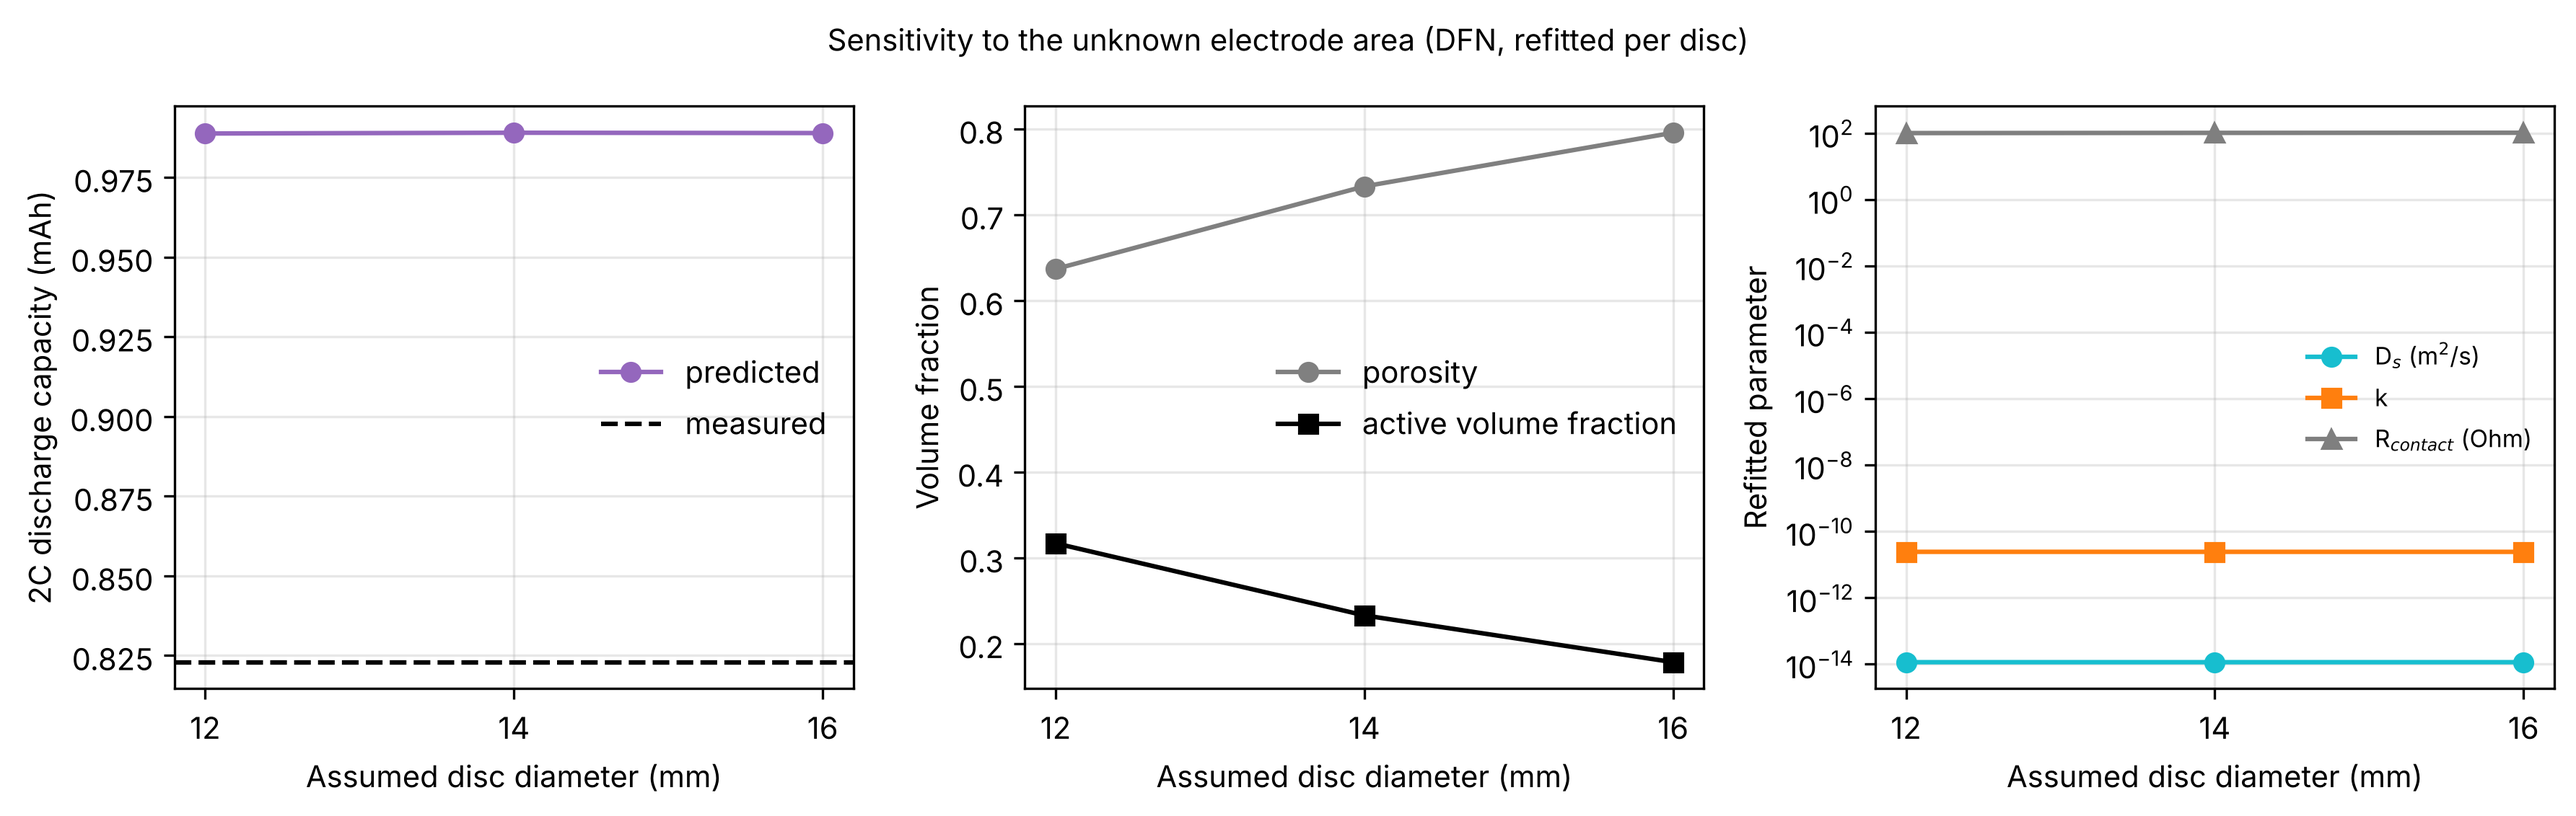
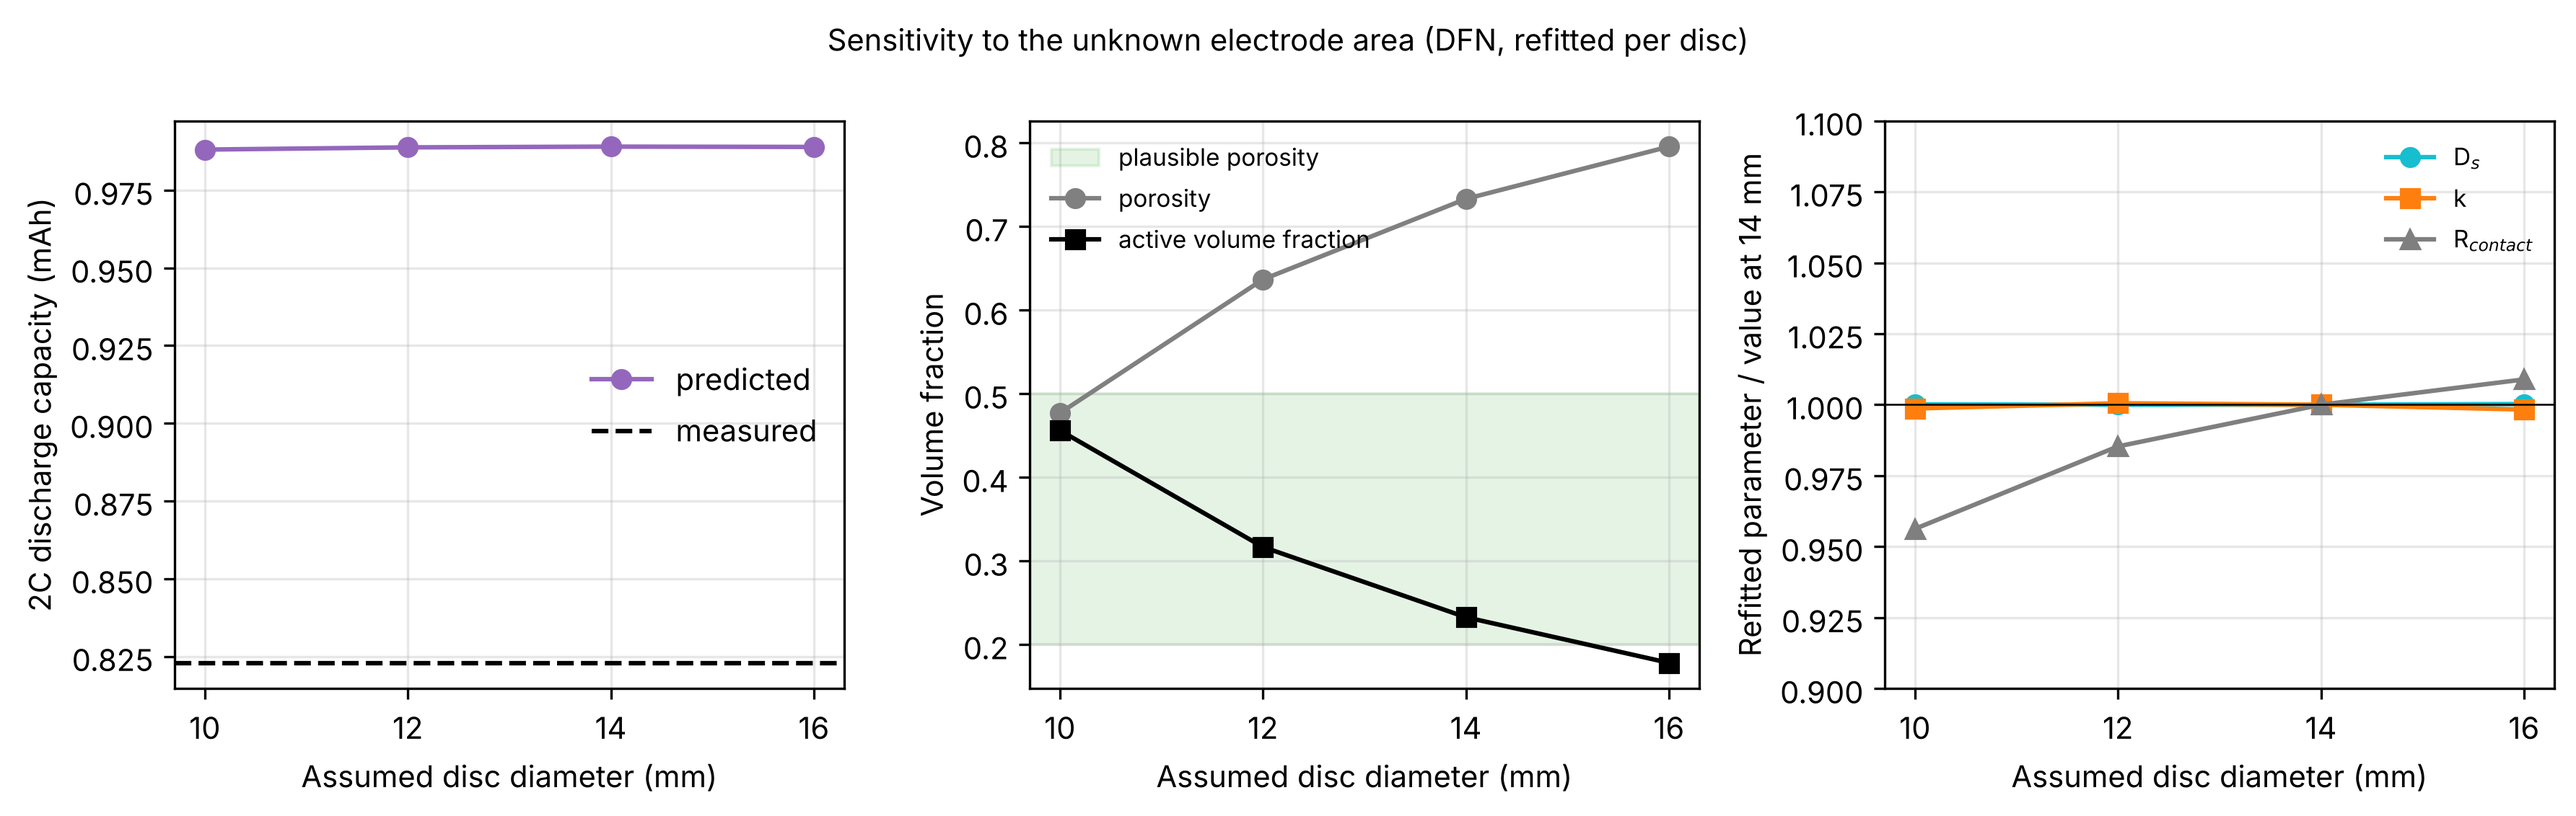
DFN disc sensitivity over 10-16 mm; README states the area derivation

diff --git a/README.md b/README.md
@@ -84,21 +84,33 @@ single biggest limitation of this work, and it is visible in the k / R_contact c
 
 ### Sensitivity to the unknown electrode area
 
-| Model | Disc (mm) | Loading (mg/cm²) | ε_active | Porosity | R_contact (Ω) | Ds (m²/s) | 2C prediction (mAh) |
-|---|---|---|---|---|---|---|---|
-| SPMe | 12 | 11.5 | 0.32 | 0.64 | 99 | 1.14e-14 | 0.989 (+20.2 %) |
-| SPMe | 14 | 8.5 | 0.23 | 0.73 | 101 | 1.14e-14 | 0.989 (+20.2 %) |
-| SPMe | 16 | 6.5 | 0.18 | 0.80 | 102 | 1.14e-14 | 0.989 (+20.2 %) |
-| DFN | 12 | 11.5 | 0.32 | 0.64 | 99 | 1.14e-14 | 0.989 (+20.2 %) |
-| DFN | 14 | 8.5 | 0.23 | 0.73 | 101 | 1.14e-14 | 0.989 (+20.2 %) |
-| DFN | 16 | 6.5 | 0.18 | 0.80 | 102 | 1.14e-14 | 0.989 (+20.2 %) |
+| Model | Disc (mm) | Loading (mg/cm²) | Coating density (g/cm³) | ε_active | Porosity | Coating | Train RMSE (mV) | R_contact (Ω) | Ds (m²/s) | 2C prediction (mAh) |
+|---|---|---|---|---|---|---|---|---|---|---|
+| SPMe | 10 | 16.6 | 2.07 | 0.46 | 0.48 | plausible | 26.2 | 97 | 1.14e-14 | 0.989 (+20.2 %) |
+| SPMe | 12 | 11.5 | 1.44 | 0.32 | 0.64 | light coating | 26.2 | 99 | 1.14e-14 | 0.989 (+20.2 %) |
+| SPMe | 14 | 8.5 | 1.06 | 0.23 | 0.73 | implausibly porous | 26.2 | 101 | 1.14e-14 | 0.989 (+20.2 %) |
+| SPMe | 16 | 6.5 | 0.81 | 0.18 | 0.80 | implausibly porous | 26.2 | 102 | 1.14e-14 | 0.989 (+20.2 %) |
+| DFN | 10 | 16.6 | 2.07 | 0.46 | 0.48 | plausible | 26.2 | 97 | 1.14e-14 | 0.988 (+20.1 %) |
+| DFN | 12 | 11.5 | 1.44 | 0.32 | 0.64 | light coating | 26.2 | 99 | 1.14e-14 | 0.989 (+20.2 %) |
+| DFN | 14 | 8.5 | 1.06 | 0.23 | 0.73 | implausibly porous | 26.2 | 101 | 1.14e-14 | 0.989 (+20.2 %) |
+| DFN | 16 | 6.5 | 0.81 | 0.18 | 0.80 | implausibly porous | 26.2 | 102 | 1.14e-14 | 0.989 (+20.2 %) |
 
-The disc diameter is not known. For each diameter the active volume fraction and porosity were re-derived from
-the capacity (active mass from the EC-Lab capacity and the 110 mAh/g rating, LMO density 4.28 g/cm³, binder and
-carbon at 1.8 g/cm³) and the three parameters re-fitted. The implied porosities are high, which means either the
-coating is unusually light or the nominal capacity under-states the loading; the 2C prediction barely moves,
-because with a lithium-metal counter electrode and this electrolyte the half cell is not electrolyte-limited
-in the model.
+The disc diameter is genuinely unknown: the EC-Lab `.mpr` settings block has electrode surface area and
+characteristic mass at their 0.001 defaults (never entered); only the 1.434 mAh battery capacity was set. The
+capacity therefore ties area to active volume fraction. Active mass = 1.434 mAh / 110 mAh/g = 13.0 mg,
+active volume = 3.05e-3 cm³ at 4.28 g/cm³, so for the 85 µm coating ε_active = 0.358 / A[cm²]:
+10 mm gives 0.46, 12 mm 0.32, 14 mm 0.23 and 16 mm 0.18. Binder and carbon (5.8 wt%) are taken at 1.8 g/cm³ and
+the rest of the coating volume is pore. A calendered oxide cathode normally has a porosity of 0.25 to 0.40
+(up to ~0.5 uncalendered) and an active volume fraction of 0.45 to 0.65. By that yardstick only the
+10 mm disc gives a physically plausible coating; 12 mm would be an
+unusually light coating and 14 to 16 mm imply porosities of 0.73 to 0.80, which no real electrode has. Either
+the disc is small, or the 1.434 mAh (110 mAh/g) capacity under-states the active loading, so that the true
+ε_active is higher than this derivation gives for any disc. The three parameters were re-fitted for every
+diameter: the training RMSE, τ, k and the 2C prediction do not change to the precision shown
+(2C spans 0.988 to 0.989 mAh), and only R_contact drifts by a few ohms as the electrolyte and solid
+ohmic paths take up slack. The model is not electrolyte-limited with a lithium-metal counter electrode and this
+electrolyte, so the unknown area does not affect the headline result, and the 14 mm assumption was kept for the
+headline figures as the mid-point of the 12 to 16 mm range coin cells usually use.
 
 ## Method
 
@@ -133,8 +145,13 @@ in the model.
 
 - One cell, one cycle per rate, and the seven tests ran in sequence on that cell, so slow drift (Mn dissolution,
   electrolyte oxidation at 4.5 V) is folded into the fitted parameters.
-- The electrode area is unknown; see the sensitivity table. The electrolyte is assumed to be 1 M LiPF6 in
-  carbonates with the `Xu2019` / Valoen2005 transport properties, and the lithium-metal kinetics are Xu2019's.
+- The electrode area was never entered in EC-Lab (surface area and characteristic mass are at the 0.001
+  defaults in the `.mpr` settings), so it is derived from the capacity: ε_active = 0.358 / A[cm²].
+  Only a 10 mm disc gives a conventional coating; the 12 to 16 mm discs imply light to implausibly porous
+  coatings, which points to the nominal capacity under-stating the loading. The headline uses 14 mm; the
+  sensitivity table shows the prediction does not depend on this choice.
+- The electrolyte is assumed to be 1 M LiPF6 in carbonates with the `Xu2019` / Valoen2005 transport
+  properties, and the lithium-metal kinetics are Xu2019's.
 - The fitted parameters are effective values: τ = R²/Ds at an assumed 5 µm radius, a rate constant that absorbs
   the unknown real surface area, and a contact resistance of about 101 Ω that lumps current-collector contact,
   separator and lithium-metal interphase resistance. The round-trip IR drop of that resistance at the C/10 current is 28 mV, about half of the
